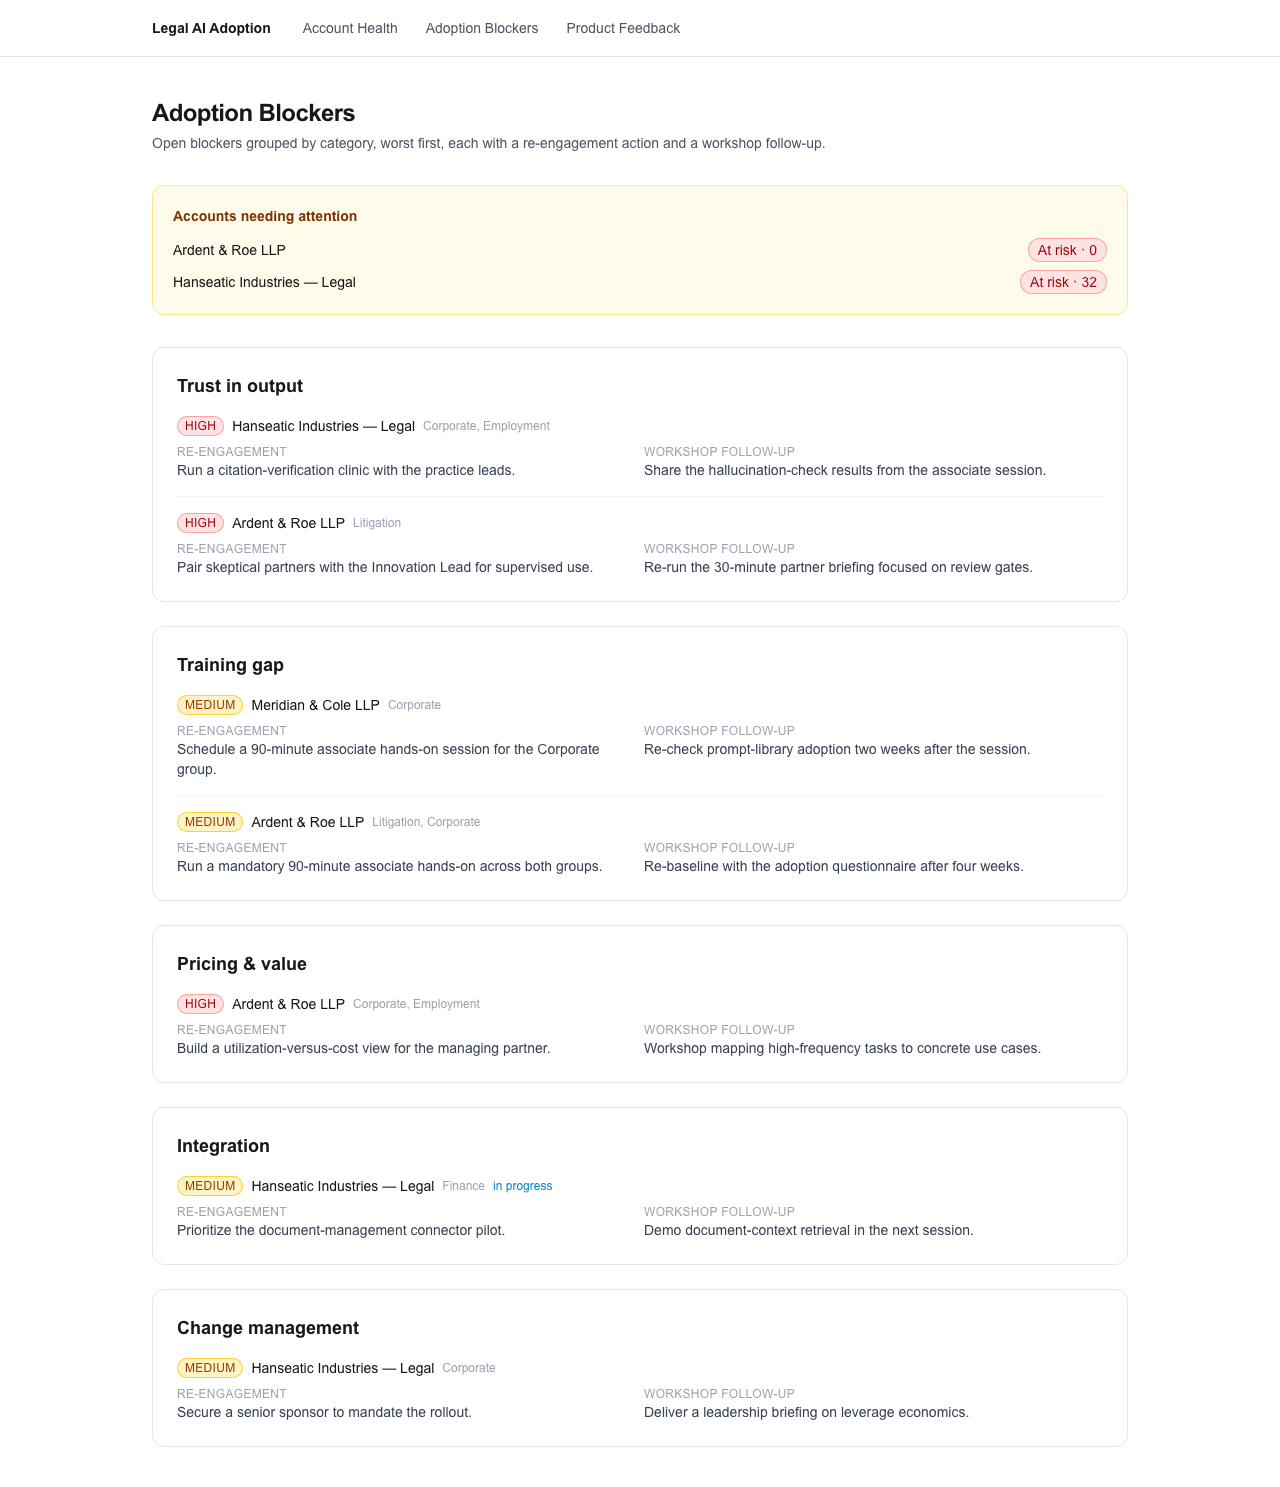
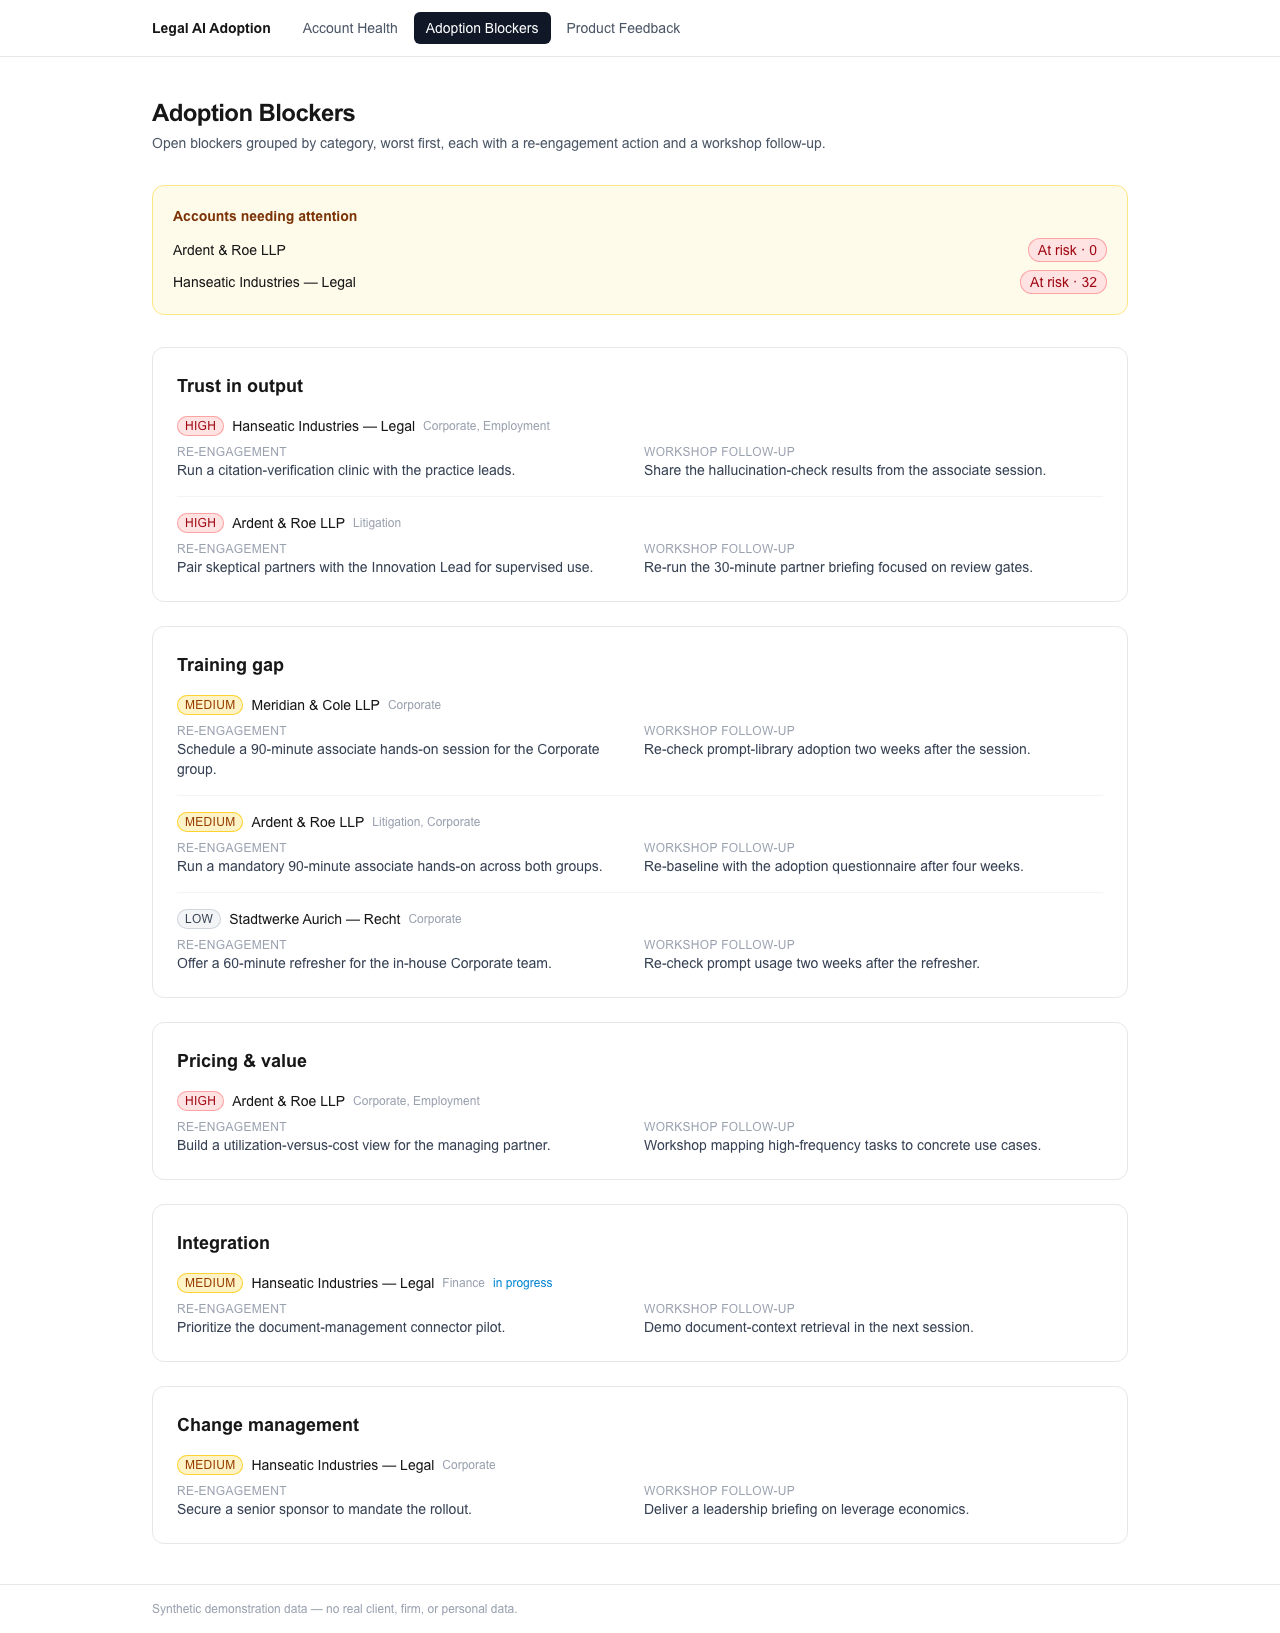
docs: refresh screenshots and readme after polish

diff --git a/README.md b/README.md
@@ -28,6 +28,7 @@ measured on utilization, expansion, and renewal — not on shipping code.
 - I model adoption as data: a health score over utilization, trend, blockers, and feedback engagement.
 - I think in re-engagement, not dashboards for their own sake: every blocker carries an action and a workshop follow-up.
 - I translate user friction into product requirements: the feedback queue is the artifact you hand to Product and Engineering.
+- I make health legible: a portfolio overview strip for triage, and a per-account breakdown showing exactly what drives each score.
 - I keep the human-review gate explicit: this tracks adoption of a reviewed product, never autonomous legal advice.
 
 ## Demo path
@@ -40,7 +41,7 @@ pnpm test         # the adoption health score and data layer are unit-tested
 
 Three pages:
 
-1. **Account Health** (`/`) — health score per account and practice group, persona adoption, weekly-active trend.
+1. **Account Health** (`/`) — a portfolio overview strip (accounts by band, expansion-ready, open high-severity blockers), then per-account health with a score breakdown, practice groups, persona adoption, and the weekly-active trend.
 2. **Adoption Blockers** (`/blockers`) — open blockers by category, worst first, each with a re-engagement action and a workshop follow-up.
 3. **Product Feedback Queue** (`/feedback`) — user friction routed to product areas, with a triage pipeline.
 
@@ -71,7 +72,9 @@ with one open training-gap blocker in Corporate. You pull up Adoption Blockers, 
 the re-engagement action already attached — a 90-minute associate hands-on — and book it
 on the spot. Then you open the Feedback Queue, show the partner that their associates'
 complaint about cross-referenced definitions is already "Shared with Product," and use
-that to make the renewal conversation about momentum instead of price.
+that to make the renewal conversation about momentum instead of price. The overview strip
+up top flags that one account in the book is already expansion-ready — that is the one you
+build the upsell around this quarter.
 
 ## Limitations
 